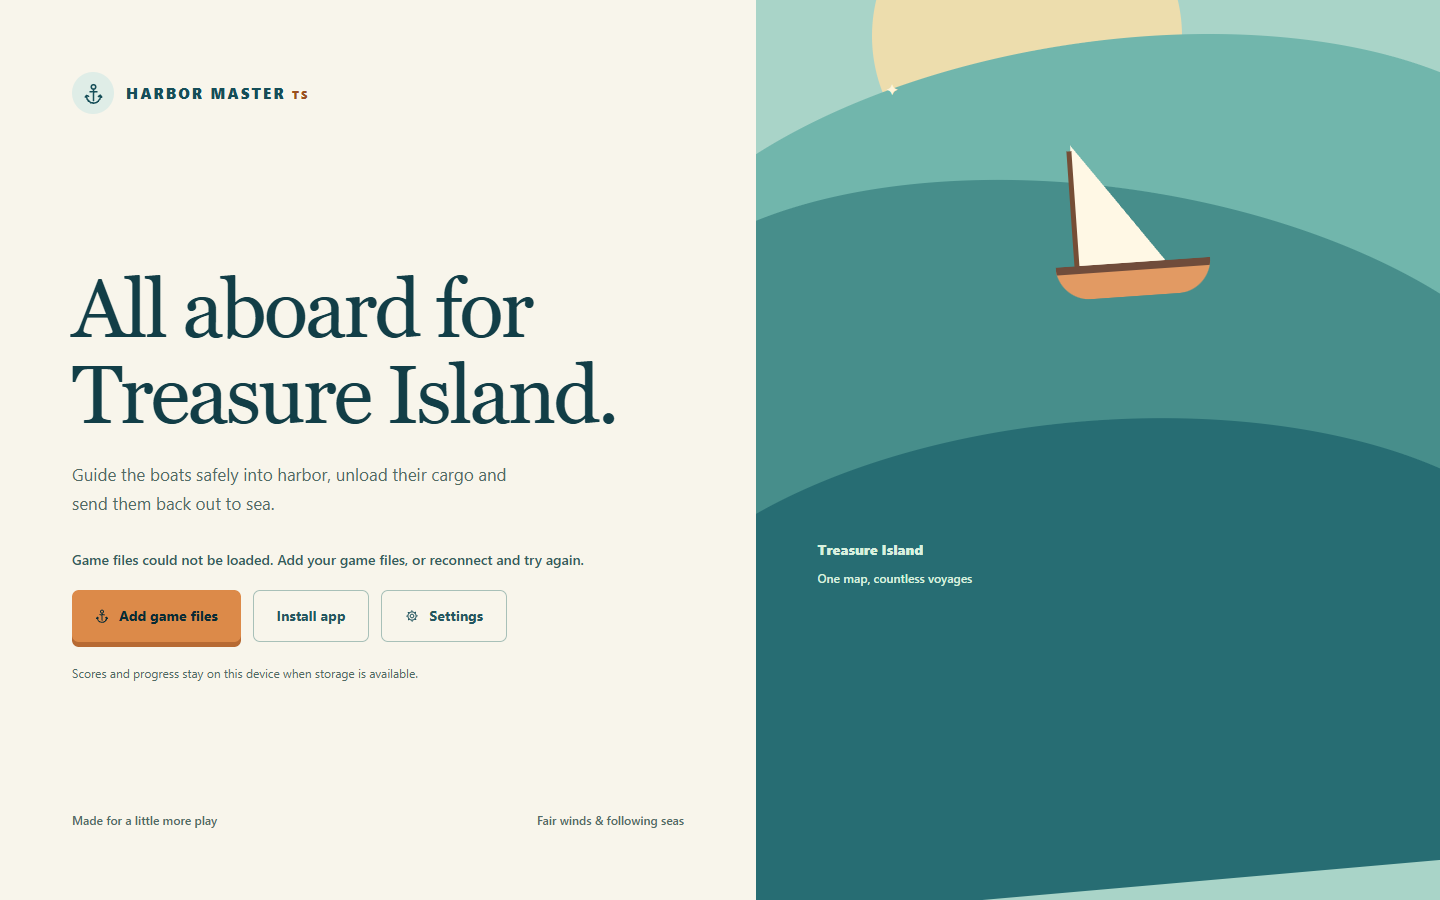
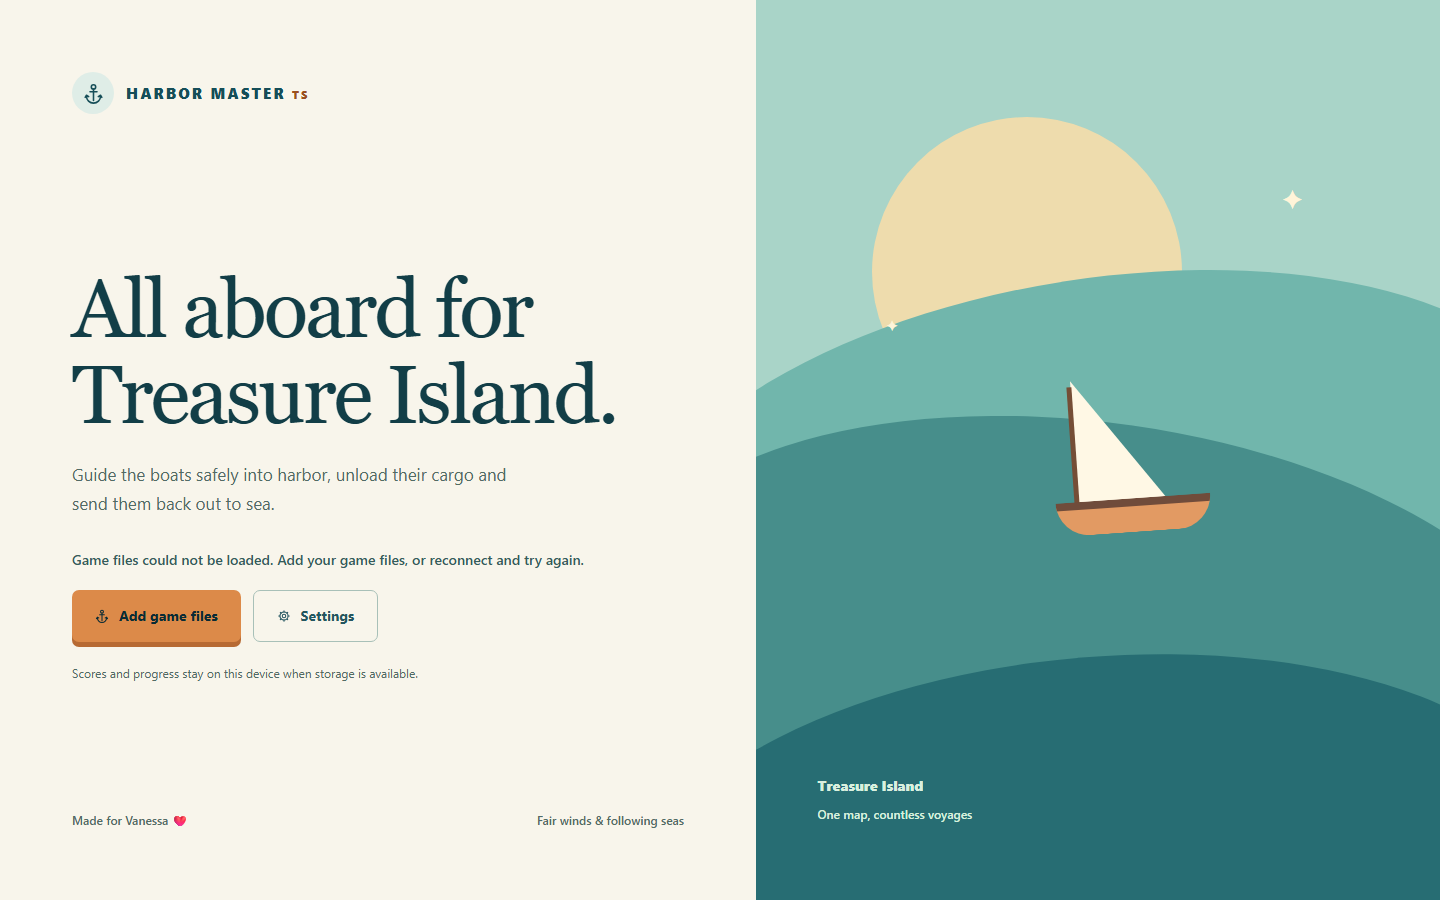
Dedicate Harbor Master to Vanessa

diff --git a/index.html b/index.html
@@ -36,7 +36,7 @@
           <div id="shift-stats" class="shift-stats" aria-label="Treasure Island statistics" hidden><div><strong id="best-shift">0</strong><span>Best shift</span></div><div><strong id="avg-shift">0</strong><span>Average shift</span></div><div><strong id="shifts-worked">0</strong><span>Shifts worked</span></div><div><strong id="total-cargo">0</strong><span>Cargo received</span></div></div><p class="privacy">Scores and progress stay on this device when storage is available.</p><p class="privacy" data-storage-warning role="status" hidden>Settings, scores and shift progress cannot be saved on this device.</p>
           <button id="change-file" class="text-button" hidden>Choose a different game file</button>
         </div>
-        <div class="footer"><span>Made for a little more play</span><span>Fair winds &amp; following seas</span></div>
+        <div class="footer"><span>Made for Vanessa ❤</span><span>Fair winds &amp; following seas</span></div>
       </div>
       <div class="illustration" aria-hidden="true"><div class="sun"></div><div class="wave wave-one"></div><div class="wave wave-two"></div><div class="wave wave-three"></div><div class="sailboat"><span class="sail"></span><span class="mast"></span><span class="hull"></span></div><span class="spark spark-one">✦</span><span class="spark spark-two">✦</span><div class="island-label">Treasure Island<br><span>One map, countless voyages</span></div></div>
     </section>
